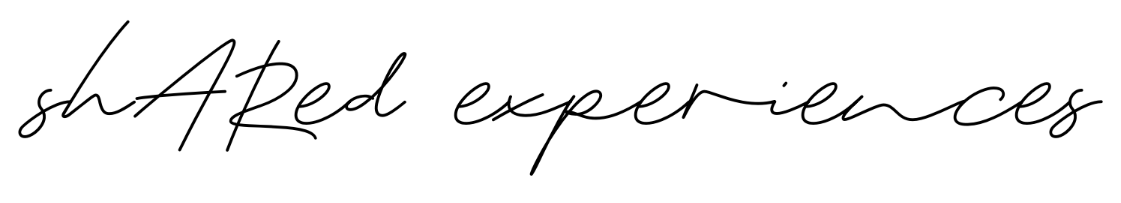
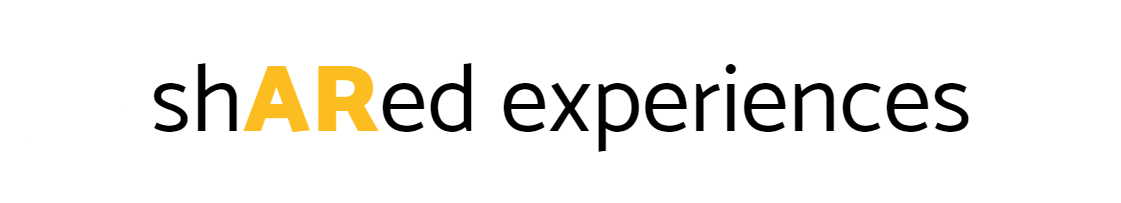
changed header and display text to match color themes and fonts

Changed region(s): [[0.0, 0.1773, 0.9991, 0.8571], [0.0937, 0.1182, 0.1249, 0.2365], [0.6244, 0.3251, 0.6557, 0.3547]]

diff --git a/Splash.js b/Splash.js
@@ -31,7 +31,7 @@ export default class Splash extends Component {
               </TouchableHighlight>
             </View>
             <View>
-            <Text style={localStyles.splashDescription} onPress={ ()=> Linking.openURL('https://solstice-splash.herokuapp.com') } >Create Experiences</Text>
+            <Text style={localStyles.splashDescription} onPress={ ()=> Linking.openURL('https://solstice-splash.herokuapp.com/#login') } >Create Experiences</Text>
             </View>
           </View>
         </Modal>

diff --git a/js/ARScene.js b/js/ARScene.js
@@ -111,9 +111,9 @@ export default class ARScene extends Component {
 
 var styles = StyleSheet.create({
   helloWorldTextStyle: {
-    fontFamily: 'Arial',
+    fontFamily: 'Catamaran',
     fontSize: 30,
-    color: '#ffffff',
+    color: '#7b4397',
     textAlignVertical: 'center',
     textAlign: 'center',  
   },
